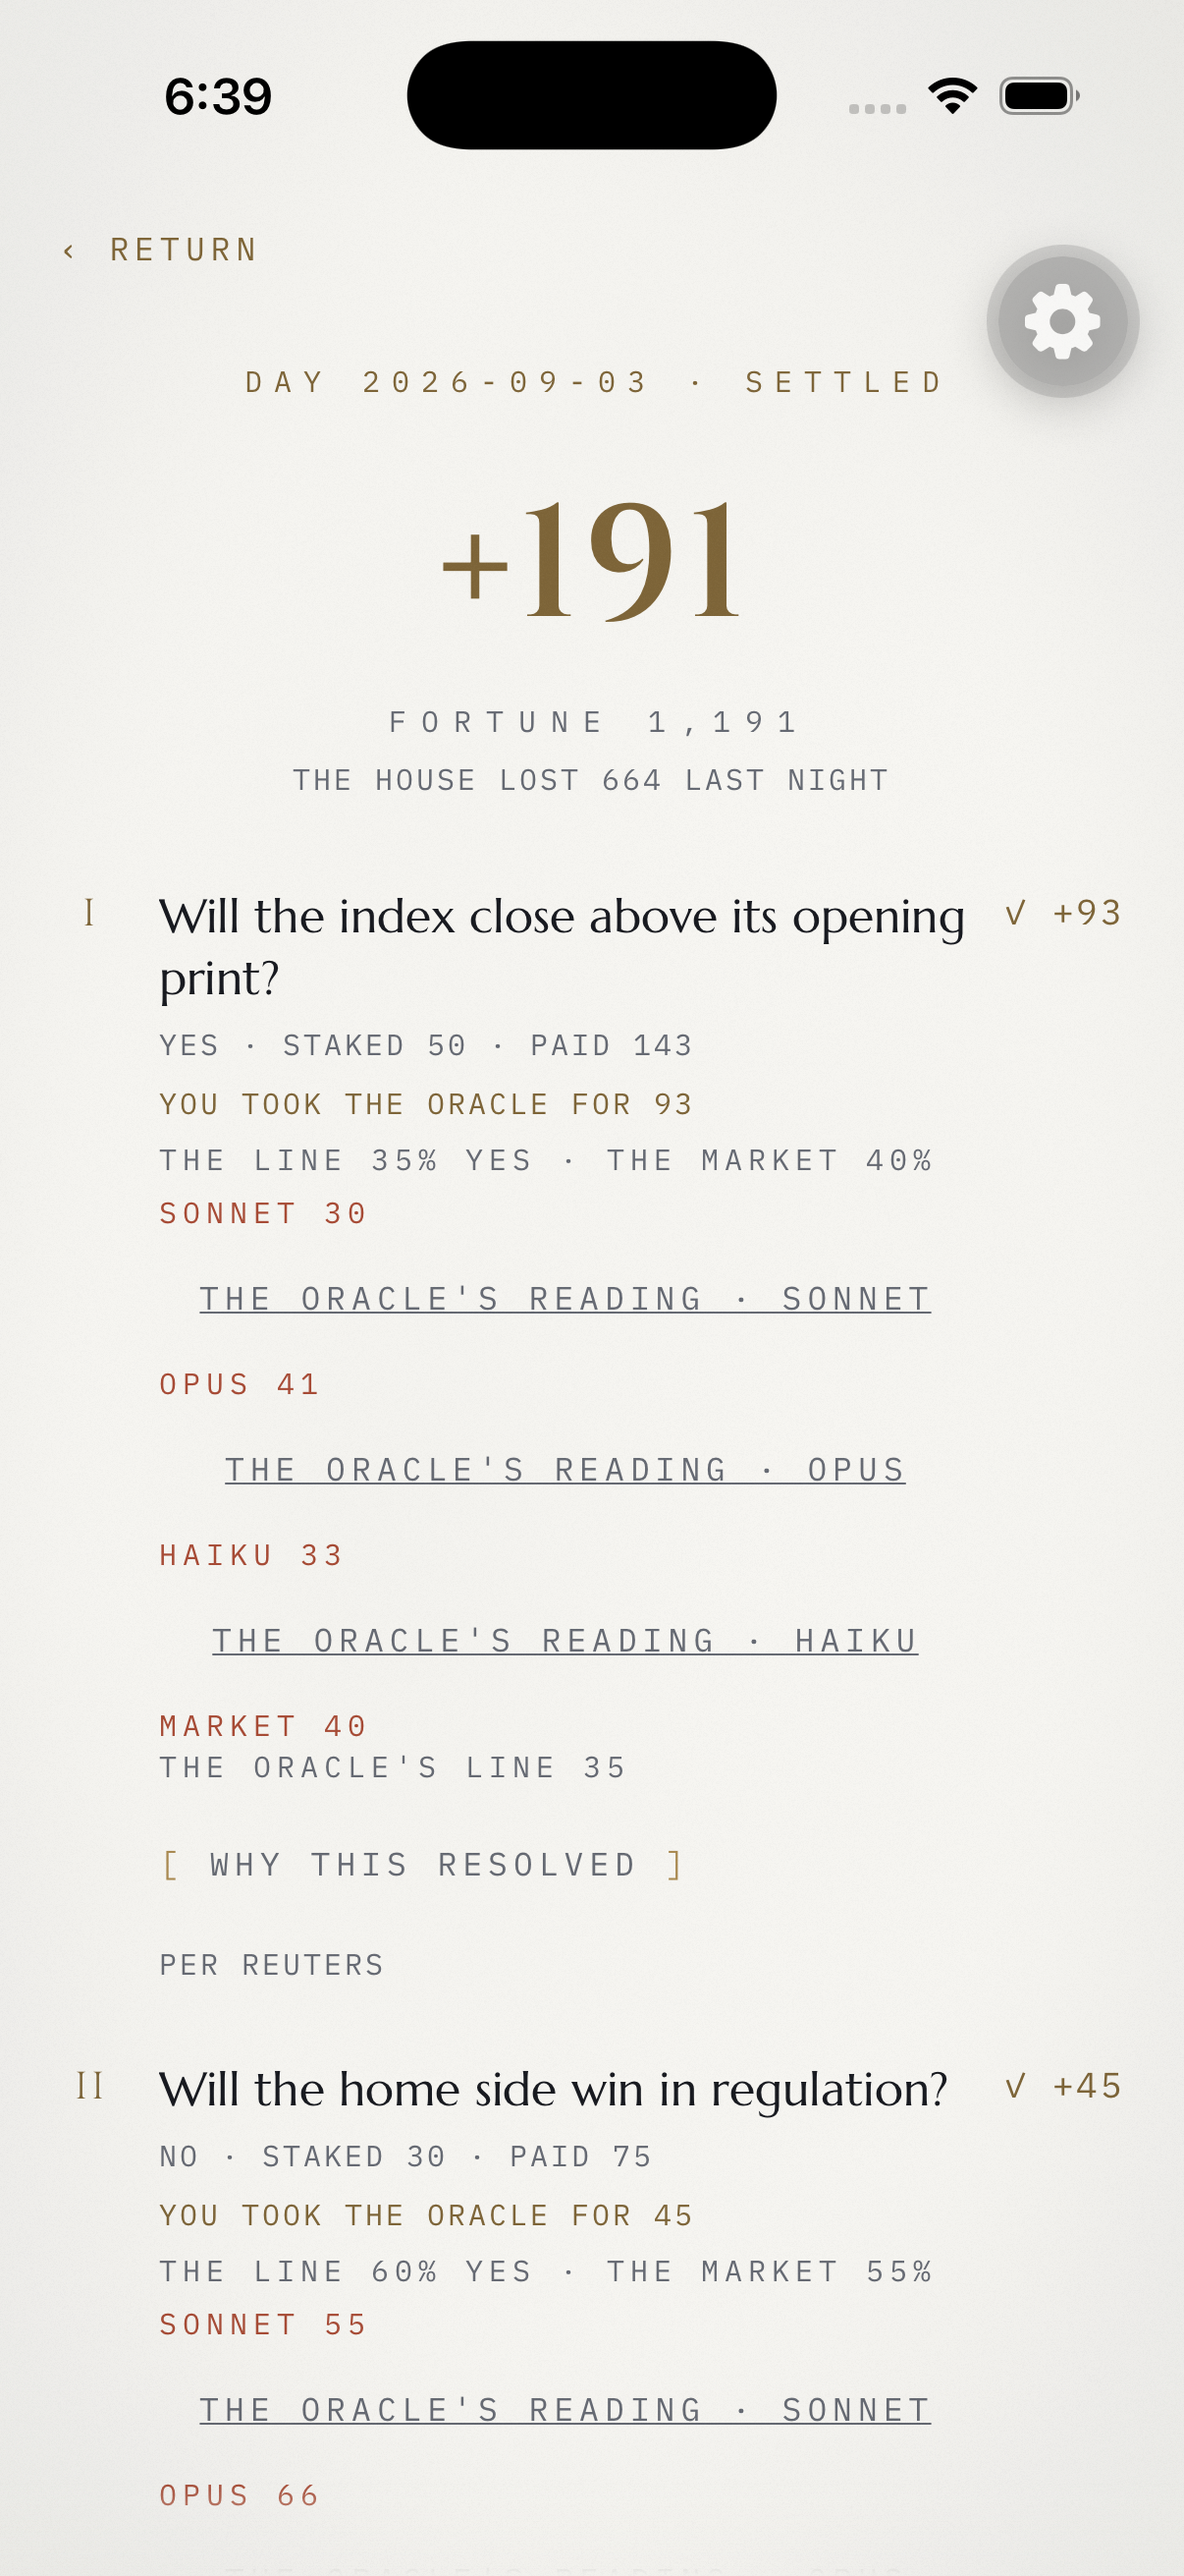
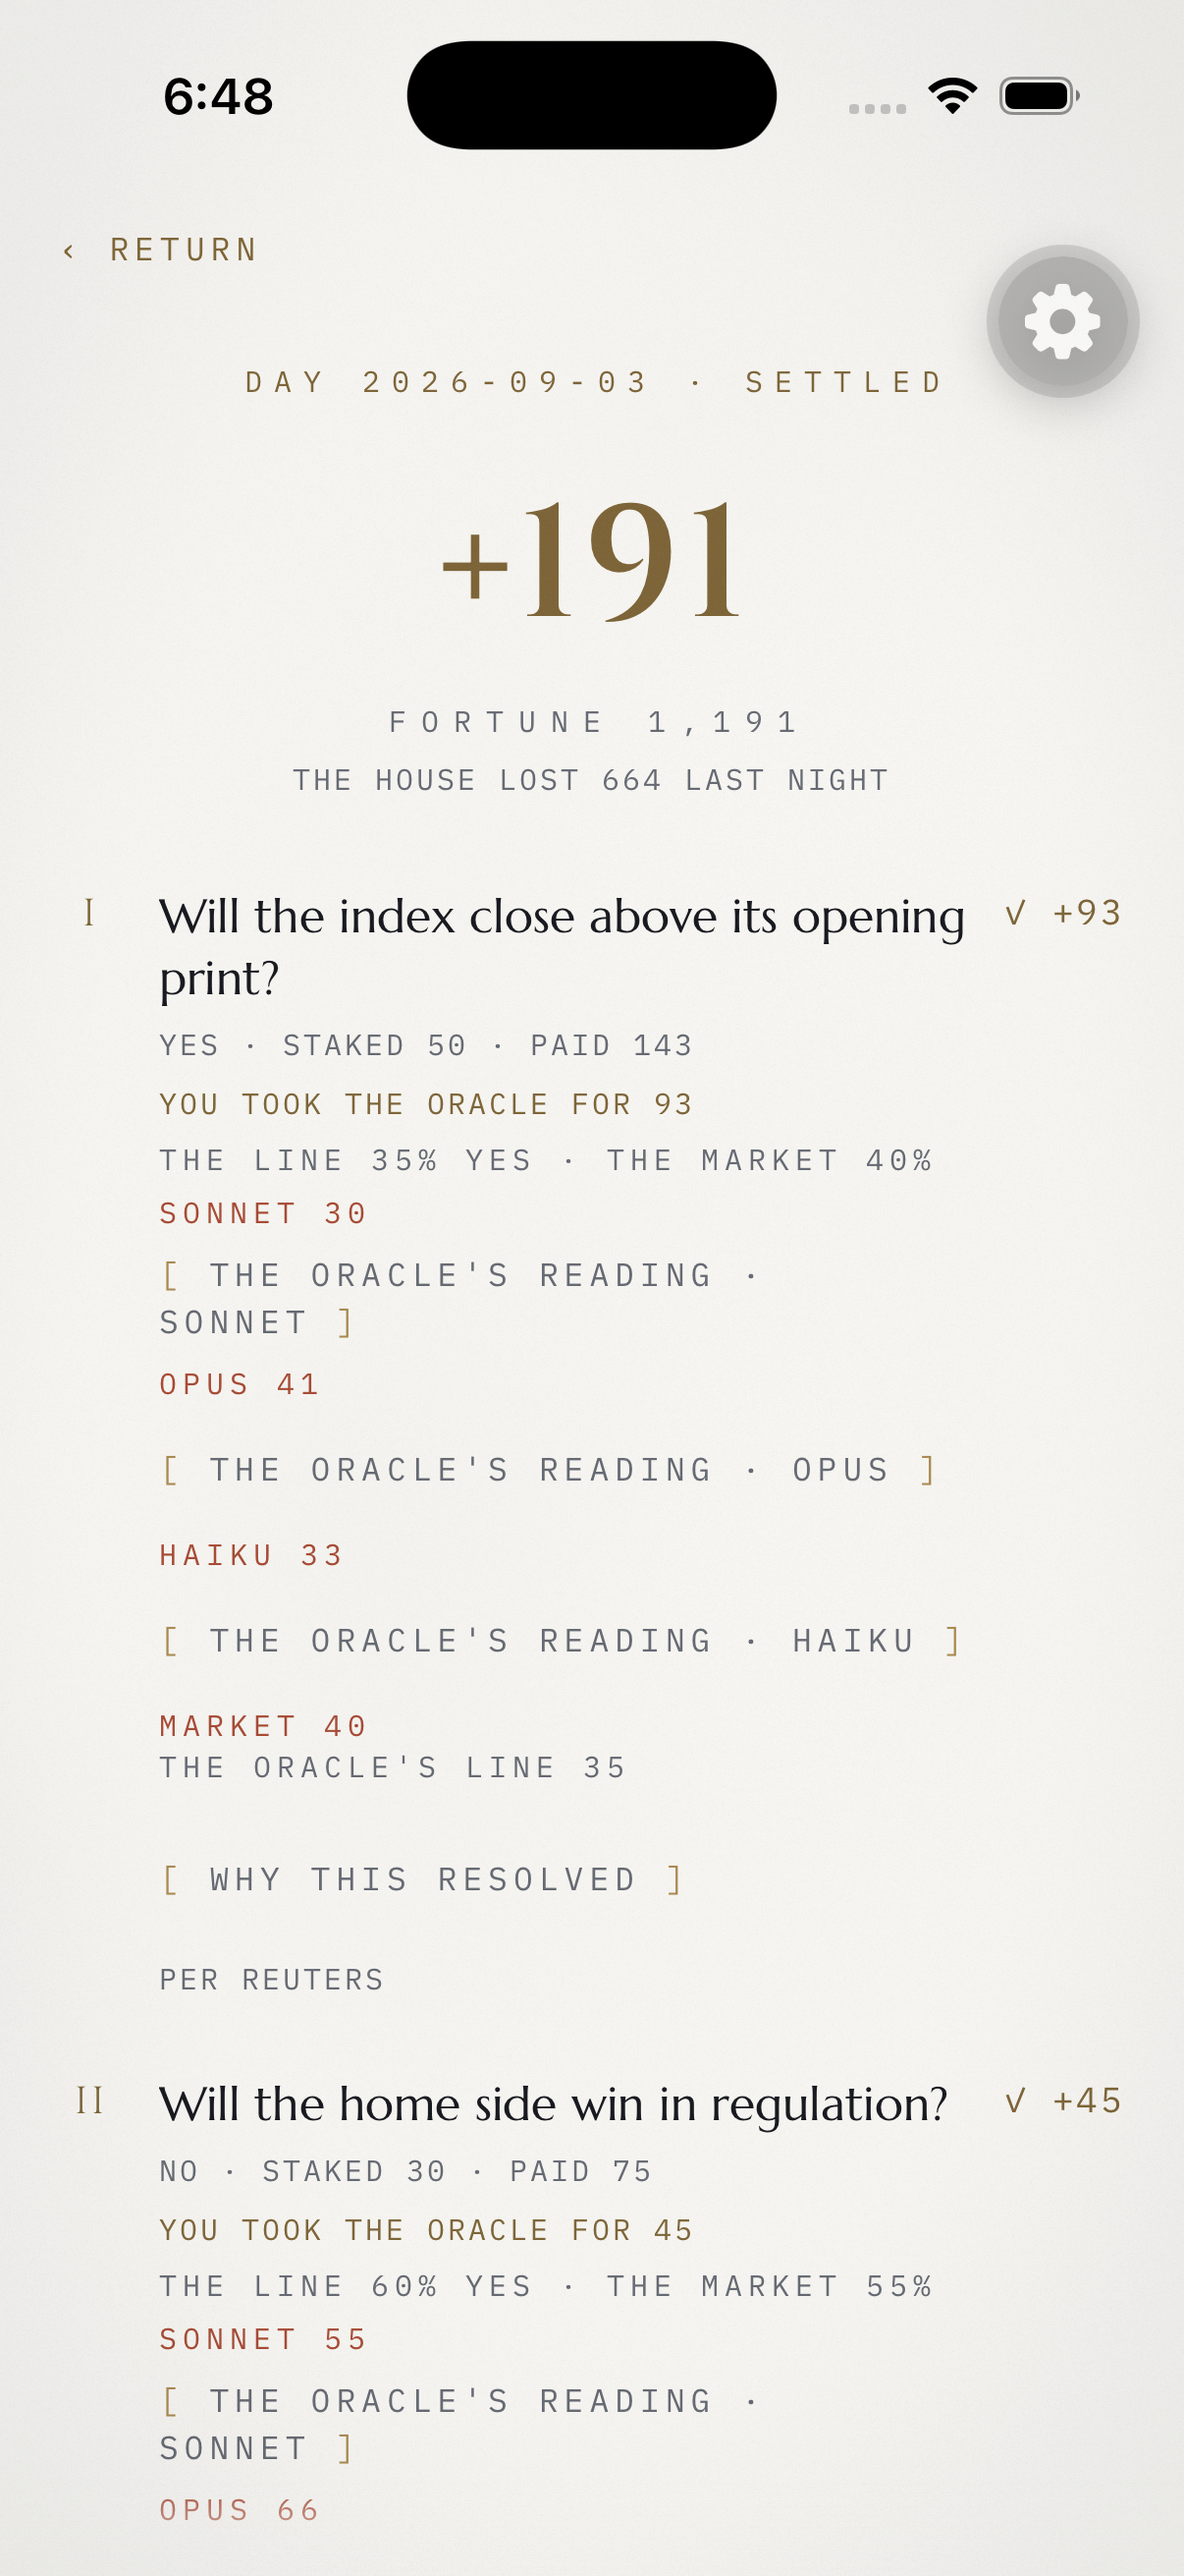
fix(mobile): the reading's link matches the app's bracketed disclosure, not a QuietLink
Claude-Session: https://claude.ai/code/session_01QfJ2j2sSP4jacqTEkTbske

diff --git a/apps/mobile/src/ui/CouncilReading.tsx b/apps/mobile/src/ui/CouncilReading.tsx
@@ -5,10 +5,9 @@
 // reading copy, set in sentence case as the member wrote it; the link and
 // the labels are machine voice.
 import { useState } from "react";
-import { View } from "react-native";
+import { Pressable, Text, View } from "react-native";
 import type { CouncilEntry, EvidenceItem } from "@oracle/core";
 import { Mono, Serif, role } from "./Text";
-import { QuietLink } from "./Button";
 import { EvidenceCard } from "./EvidenceCard";
 import { readingFor, memberName, READING_LINK } from "../game/council";
 import { capture } from "../analytics/analytics";
@@ -18,12 +17,23 @@ export function CouncilReading({ entry, pack, questionId }: { entry: CouncilEntr
   const [open, setOpen] = useState(false);
   const reading = readingFor(entry, pack);
   if (!reading) return null;
+  const name = memberName(entry.member).toUpperCase();
   return (
     <View style={{ gap: space(2) }}>
-      <QuietLink title={open ? `HIDE ${memberName(entry.member).toUpperCase()}'S READING` : `${READING_LINK} · ${memberName(entry.member).toUpperCase()}`} onPress={() => {
+      {/* Bracketed, like every other disclosure in this app (ResolutionEvidence's
+          [ WHY THIS RESOLVED ]) — not an underlined QuietLink, which reads as a
+          second control style and, at 44pt tall with its own padding, doubled
+          every card's height with three of these stacked under one line. */}
+      <Pressable accessibilityRole="button" accessibilityState={{ expanded: open }} onPress={() => {
         if (!open) capture("reading_opened", { question_id: questionId, member: entry.member });
         setOpen((v) => !v);
-      }} />
+      }} style={({ pressed }) => ({ minHeight: 44, justifyContent: "center", opacity: pressed ? 0.5 : 1 })}>
+        <Mono {...role.line} color={colors.mutedInk} style={[role.line.style, { textAlign: "left" }]}>
+          <Text style={{ color: colors.agedGold }}>[</Text>
+          {open ? ` HIDE ${name}'S READING ` : ` ${READING_LINK} · ${name} `}
+          <Text style={{ color: colors.agedGold }}>]</Text>
+        </Mono>
+      </Pressable>
       {open && (
         <View style={{ gap: space(3) }}>
           <Serif size={15} color={colors.ink} style={{ lineHeight: 22 }}>{reading.paragraph}</Serif>

diff --git a/apps/mobile/src/app/reveal/[date].tsx b/apps/mobile/src/app/reveal/[date].tsx
@@ -91,7 +91,7 @@ function CouncilSplit({ d, questionId, linePYes, fontScale, align = "left" }: { 
   const pack = evidenceFor(d, questionId);
   const tone = (t: SplitRow["tone"]) => (t === "win" ? colors.goldText : t === "loss" ? colors.vermilion : colors.mutedInk);
   return (
-    <View style={{ minHeight: scaledRow(SPLIT_ROW_H, fontScale) * rows.length }} accessibilityLabel={`The Council: ${rows.map((r) => r.label.toLowerCase()).join(", ")}`}>
+    <View style={{ minHeight: scaledRow(SPLIT_ROW_H, fontScale) * rows.length + 44 * entries.filter((e) => e.member !== "market").length }} accessibilityLabel={`The Council: ${rows.map((r) => r.label.toLowerCase()).join(", ")}`}>
       {rows.map((r) => {
         const entry = entries.find((e) => e.member === r.member);
         return (
